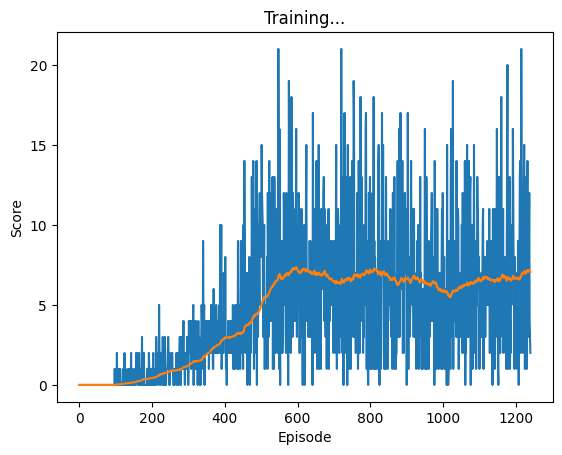
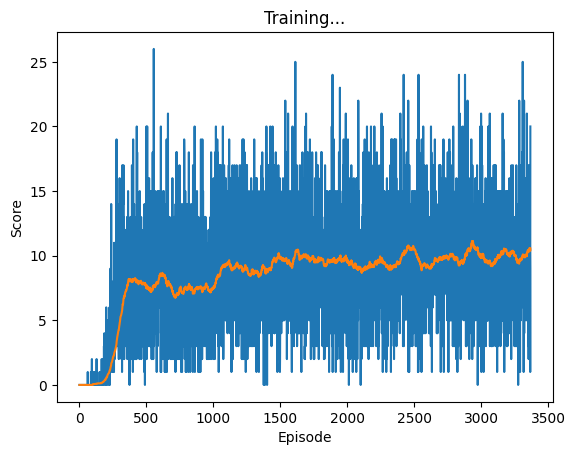
snake_game: Update hyperparams and reward structure

diff --git a/snake_game/agent.py b/snake_game/agent.py
@@ -6,7 +6,6 @@ from itertools import count
 from pathlib import Path
 from typing import List
 
-import matplotlib
 import torch
 from matplotlib import pyplot as plt
 from snake import Actions, Snake
@@ -16,10 +15,8 @@ from utils.base_agent import BaseGameAgent
 from utils.plotting import plot_scores
 
 # WORLD_SIZE is the size of the world, which is a square grid.
-# MAX_REWARD is the maximum reward that can be obtained.
 # N_EPISODES is the number of episodes to train the agent.
 WORLD_SIZE: int = 10
-MAX_REWARD = 100000
 N_EPISODES = 10000
 
 
@@ -36,6 +33,14 @@ class SnakeGameAgent(BaseGameAgent):
             n_observations=len(self.snake.get_state()),
             n_actions=len(Actions),
             device=self._device,
+            batch_size=128,
+            gamma=0.999,
+            eps_start=0.99,
+            eps_end=0.001,
+            eps_decay=500,
+            tau=0.0001,
+            lr=0.0001,
+            memory_capacity=10000,
         )
 
         # Init curses.
@@ -76,18 +81,21 @@ class SnakeGameAgent(BaseGameAgent):
                 if self.snake.is_snake_eat_food():
                     self.snake.eat_food()
                     self.snake.generate_food()
-                    reward = torch.tensor([10.0], device=self._device)
+                    reward = torch.tensor([0.999], device=self._device)
                 elif self.snake.is_collision():
-                    reward = torch.tensor([-10.0], device=self._device)
+                    reward = torch.tensor([-0.999], device=self._device)
                     done = True
                 else:
                     if self.snake.distance_to_food < previous_distance_to_food:
-                        reward = torch.tensor([1.0], device=self._device)
+                        reward = torch.tensor([0.005], device=self._device)
                     else:
-                        reward = torch.tensor([-1.0], device=self._device)
+                        reward = torch.tensor([0.000], device=self._device)
 
                 # Add a small positive reward for surviving each step.
-                reward += torch.tensor([0.1], device=self._device)
+                reward += torch.tensor([0.001], device=self._device)
+
+                # Clamp the reward to be between -1 and 1.
+                reward = torch.clamp(reward, -1.000, 1.000)
 
                 # Get next state.
                 next_state = torch.tensor(
